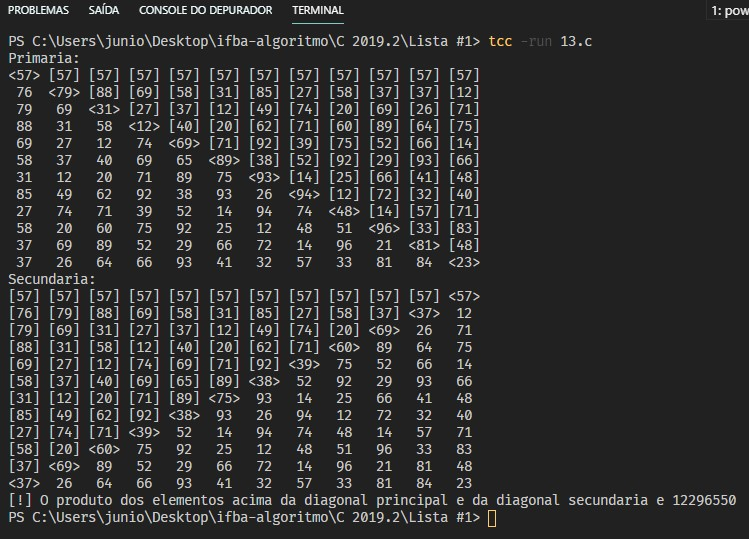
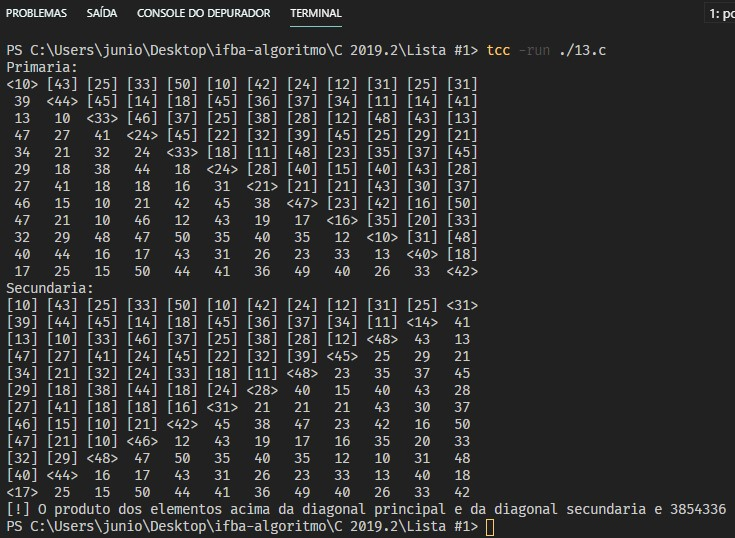
Not a big deal

diff --git a/C 2019.2/Lista #1/7.c b/C 2019.2/Lista #1/7.c
@@ -35,8 +35,8 @@ char * minimax(int * matriz, int rows, int cols) {
     // Achar a linha que tem o maior valor
     for(int y = 0; y < rows; y++) {
         for(int x = 0; x < cols; x++) {
-            if(matriz[x * y + y] > buff) {
-                buff = matriz[x * y + y];
+            if(matriz[x + y * cols] > buff) {
+                buff = matriz[x + y * cols];
                 maxrow = y;
             }
         }
@@ -44,8 +44,8 @@ char * minimax(int * matriz, int rows, int cols) {
     // Achar o menor valor na linha que tem o maior valor
     buff = (int) NULL;
     for(int x = 0; x < cols; x++) {
-        if(matriz[x * maxrow + maxrow] < buff || buff == NULL) {
-            buff = matriz[x * maxrow + maxrow];
+        if(matriz[x + maxrow * cols] < buff || buff == NULL) {
+            buff = matriz[x + maxrow * cols];
             sprintf(pos, "[%d,%d]", maxrow, x);
         }
     }
@@ -54,9 +54,9 @@ char * minimax(int * matriz, int rows, int cols) {
         printf(y == maxrow ? "> " : "  ");
         for(int x = 0; x < cols; x++)
             printf(
-                y == maxrow && matriz[x * y + y] == buff && !flag ?
+                y == maxrow && matriz[x + y * cols] == buff && !flag ?
                     "[%d]" + flag++ :
-                " %d ", matriz[x * y + y]);
+                " %d ", matriz[x + y * cols]);
         puts("");
     }
     return pos;

diff --git a/C 2019.2/Lista #1/13.c b/C 2019.2/Lista #1/13.c
@@ -21,7 +21,7 @@ int main() {
 
     for(int y = 0; y < 12; y++) {
         for(int x = 0; x < 12; x++) {
-            matriz[y][x] = rand() % 90 + 10;
+            matriz[y][x] = rand() % 41 + 10;
         }
     }
     puts("Primaria:");
@@ -40,9 +40,9 @@ int getproduct(int * matriz, int rows, int cols) {
     for(int y = 0; y < rows; y++) {
         for(int x = 0; x < cols; x++) {
             if(x > y)
-                pri += matriz[x * y + y];
+                pri += matriz[x + y * cols];
             if(x < cols - 1 - y)
-                sec += matriz[x * y + y];
+                sec += matriz[x + y * cols];
         }
     }
 
@@ -56,7 +56,7 @@ void showpri(int * matriz, int rows, int cols) {
                         "<%d> " :
                    x > y ?
                         "[%d] " :
-                   " %d  ", (int) matriz[x * y + y]);
+                   " %d  ", (int) matriz[x + y * cols]);
         }
         puts("");
     }
@@ -69,7 +69,7 @@ void showsec(int * matriz, int rows, int cols) {
                         "<%d> " :
                    x < cols - 1 - y ?
                         "[%d] " :
-                   " %d  ", (int) matriz[x * y + y]);
+                   " %d  ", (int) matriz[x + y * cols]);
         }
         puts("");
     }

diff --git a/C 2019.2/Lista #1/9.c b/C 2019.2/Lista #1/9.c
@@ -33,8 +33,8 @@ void showsec(int * matriz, int rows, int cols) {
             printf(x == cols - 1 - y ?
                         "<%d> " :
                    x > cols - 1 - y ?
-                        "%d " :
-                   "%d ", (int) matriz[x * y + y]);
+                        "[%d] " :
+                   " %d  ", (int) matriz[x + y * cols]);
         }
         puts("");
     }
@@ -46,8 +46,8 @@ void showpri(int * matriz, int rows, int cols) {
             printf(x == y ?
                         "<%d> " :
                    x < y ?
-                        "%d " :
-                   "%d ", (int) matriz[x * y + y]);
+                        "[%d] " :
+                   " %d  ", (int) matriz[x + y * cols]);
         }
         puts("");
     }
@@ -57,7 +57,7 @@ int getlowersec(int * matriz, int rows, int cols) {
     int lower = (int) NULL;
     for(int y = 0; y < rows; y++) {
         for(int x = 0; x < cols; x++) {
-            int num = (int) matriz[x * y + y];
+            int num = (int) matriz[x + y * cols];
             if((lower == NULL || num < lower) && x > cols - 1 - y)
                 lower = num;
         }

diff --git a/C 2019.2/Lista #1/8.c b/C 2019.2/Lista #1/8.c
@@ -31,13 +31,13 @@ int main() {
 }
 
 float getmediapri(int * matriz, int rows, int cols) {
-    int total = 0;
+    float total = 0;
     int count = 0;
 
     for(int y = 0; y < rows; y++) {
         for(int x = 0; x < cols; x++) {
             if(x < y) {
-                total += (float) matriz[x * y + y];
+                total += (float) matriz[x + y * cols];
                 count++;
             }
         }
@@ -52,8 +52,8 @@ void showpri(int * matriz, int rows, int cols) {
             printf(x == y ?
                         "<%d> " :
                    x < y ?
-                        "%d " :
-                   "%d ", (int) matriz[x * y + y]);
+                        "[%d] " :
+                   " %d  ", (int) matriz[x + y * cols]);
         }
         puts("");
     }
